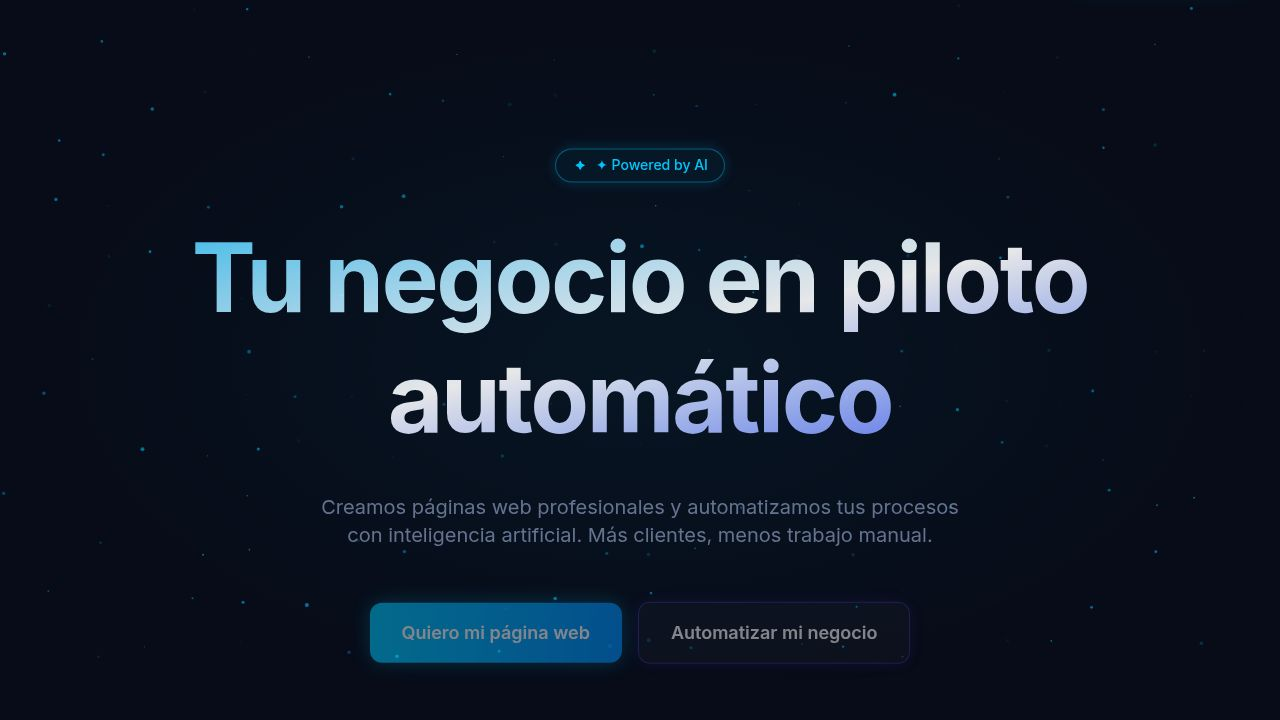
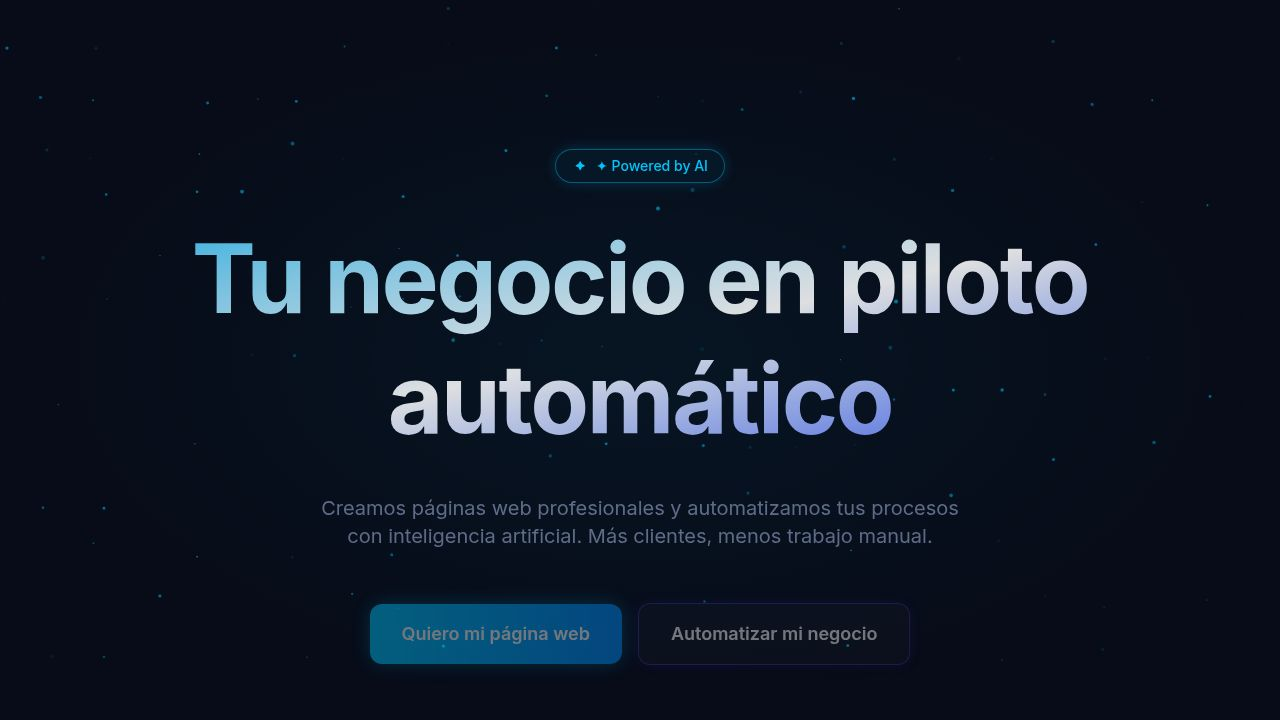
Update pricing section to include web design and AI automation tabs
Replace the existing pricing function with a tabbed interface for "Web Design" and "AI Automation" services, detailing different plans and pricing structures. The footer is also updated to display only the "PRIXMA" text.

Replit-Commit-Author: Agent
Replit-Commit-Session-Id: c377a86b-4fb3-4a33-933d-49b31525615c
Replit-Commit-Checkpoint-Type: full_checkpoint
Replit-Commit-Event-Id: 80b9a12a-a21e-4bb1-b225-8f86090a1c8e
Replit-Commit-Screenshot-Url: https://storage.googleapis.com/screenshot-production-us-central1/6b1daa9f-5ecc-4f44-8dca-c7420880aeb9/c377a86b-4fb3-4a33-933d-49b31525615c/kuLiPdW
Replit-Helium-Checkpoint-Created: true

diff --git a/artifacts/prixma/src/App.tsx b/artifacts/prixma/src/App.tsx
@@ -428,81 +428,259 @@ function PorQue() {
 }
 
 function Precios() {
+  const [tab, setTab] = useState<"web" | "auto">("web");
+
+  const webPlanes = [
+    {
+      nombre: "Esencial",
+      precio: "$800.000 COP",
+      tipo: "pago único",
+      popular: false,
+      items: [
+        "Landing page profesional",
+        "Dominio incluido",
+        "Formulario de contacto",
+        "Optimización móvil",
+        "Entrega en 5 días",
+      ],
+      cta: "Empezar",
+      ctaStyle: "normal" as const,
+    },
+    {
+      nombre: "Pro",
+      precio: "$1.500.000 COP",
+      tipo: "pago único",
+      popular: true,
+      items: [
+        "Landing page profesional",
+        "Dominio incluido",
+        "Formulario de contacto",
+        "Optimización móvil",
+        "Entrega en 5 días",
+        "Blog o catálogo de productos",
+        "Chat integrado",
+        "SEO avanzado",
+        "Google Analytics",
+      ],
+      cta: "Empezar",
+      ctaStyle: "featured" as const,
+    },
+    {
+      nombre: "Full",
+      precio: "$2.800.000 COP",
+      tipo: "pago único",
+      popular: false,
+      items: [
+        "Todo lo del Pro",
+        "Tienda online",
+        "Pasarela de pagos",
+        "Panel de administración",
+        "Soporte 3 meses incluido",
+      ],
+      cta: "Empezar",
+      ctaStyle: "normal" as const,
+    },
+  ];
+
+  const autoPlanes = [
+    {
+      nombre: "Starter",
+      setup: "$500.000",
+      mensual: "$150.000/mes",
+      popular: false,
+      items: [
+        "Bot responde 24/7 por Instagram y Facebook",
+        "Agenda citas automático",
+        "Confirmación instantánea al cliente",
+        "Recordatorio 1 hora antes",
+        "Soporte básico mensual",
+      ],
+      cta: "Cotizar",
+      ctaStyle: "normal" as const,
+    },
+    {
+      nombre: "Pro",
+      setup: "$900.000",
+      mensual: "$280.000/mes",
+      popular: true,
+      items: [
+        "Bot con IA que habla como humano",
+        "WhatsApp + Instagram + Facebook",
+        "Agenda citas automático",
+        "Confirmación y recordatorios automáticos",
+        "Pide reseñas en Google automático",
+        "CRM con historial de clientes",
+        "Soporte mensual",
+      ],
+      cta: "Cotizar",
+      ctaStyle: "featured" as const,
+    },
+    {
+      nombre: "Full",
+      setup: "$1.800.000",
+      mensual: "$500.000/mes",
+      popular: false,
+      items: [
+        "Bot con IA que habla como humano",
+        "WhatsApp + Instagram + Facebook",
+        "Agenda citas automático",
+        "Confirmación y recordatorios automáticos",
+        "Pide reseñas en Google automático",
+        "CRM con historial de clientes",
+        "Campañas de reactivación de clientes",
+        "Reportes semanales de citas agendadas",
+        "Integración con pagos",
+        "Soporte prioritario 7 días",
+      ],
+      cta: "Cotizar",
+      ctaStyle: "normal" as const,
+    },
+  ];
+
+  const accentColor = tab === "web" ? "#00c8ff" : "#6644ff";
+  const accentRgb = tab === "web" ? "0,200,255" : "102,68,255";
+  const checkColor = tab === "web" ? "text-[#00c8ff]" : "text-[#6644ff]";
+
   return (
     <section className="py-24 bg-[#0d1225]" id="precios">
       <div className="container mx-auto px-6">
-        <div className="text-center mb-16">
+        <div className="text-center mb-12">
           <h2 className="text-4xl md:text-5xl font-bold mb-4" style={{ fontFamily: "'Inter', sans-serif" }}>Planes y Precios</h2>
-          <div className="h-1 w-24 bg-gradient-to-r from-[#00c8ff] to-[#6644ff] mx-auto rounded-full"></div>
+          <div className="h-1 w-24 bg-gradient-to-r from-[#00c8ff] to-[#6644ff] mx-auto rounded-full mb-10"></div>
+
+          {/* Tabs */}
+          <div className="inline-flex items-center bg-[#080c18] border border-white/10 rounded-2xl p-1.5 gap-1">
+            <button
+              onClick={() => setTab("web")}
+              className={`px-6 py-3 rounded-xl text-sm font-semibold transition-all duration-300 flex items-center gap-2 ${
+                tab === "web"
+                  ? "bg-[#00c8ff]/15 text-[#00c8ff] border border-[#00c8ff]/40 shadow-[0_0_16px_rgba(0,200,255,0.2)]"
+                  : "text-[#8899bb] hover:text-white"
+              }`}
+            >
+              🌐 Páginas Web
+            </button>
+            <button
+              onClick={() => setTab("auto")}
+              className={`px-6 py-3 rounded-xl text-sm font-semibold transition-all duration-300 flex items-center gap-2 ${
+                tab === "auto"
+                  ? "bg-[#6644ff]/15 text-[#6644ff] border border-[#6644ff]/40 shadow-[0_0_16px_rgba(102,68,255,0.2)]"
+                  : "text-[#8899bb] hover:text-white"
+              }`}
+            >
+              🤖 Automatización IA
+            </button>
+          </div>
         </div>
 
-        <div className="grid lg:grid-cols-3 gap-8 max-w-6xl mx-auto items-center">
-          <CardReveal>
-            <div className="bg-[#080c18] border border-white/10 rounded-2xl p-8 hover:border-white/30 transition-colors">
-              <h3 className="text-2xl font-bold mb-2" style={{ fontFamily: "'Inter', sans-serif" }}>Web Esencial</h3>
-              <p className="text-[#8899bb] mb-6">Para negocios que inician</p>
-              <div className="mb-8">
-                <span className="text-sm text-[#8899bb]">Desde</span>
-                <div className="text-3xl font-bold text-white mt-1" style={{ fontFamily: "'Inter', sans-serif" }}>$800.000 COP</div>
-              </div>
-              <ul className="space-y-4 mb-8">
-                {["Landing page profesional", "Dominio incluido", "Formulario de contacto", "Optimización móvil", "Entrega en 5 días"].map((item, i) => (
-                  <li key={i} className="flex items-start gap-3 text-sm text-white/80">
-                    <CheckCircle2 size={18} className="text-[#00c8ff] shrink-0 mt-0.5" /> <span>{item}</span>
-                  </li>
-                ))}
-              </ul>
-              <a href="#contacto" className="block w-full py-3 text-center rounded-xl bg-white/5 border border-white/10 hover:bg-white/10 transition-colors font-medium">
-                Empezar
-              </a>
-            </div>
-          </CardReveal>
+        {/* Web plans */}
+        {tab === "web" && (
+          <div className="grid lg:grid-cols-3 gap-8 max-w-6xl mx-auto items-center">
+            {webPlanes.map((plan, i) => (
+              <CardReveal key={plan.nombre} delay={i * 0.15}>
+                <div
+                  className={`relative h-full rounded-2xl p-8 flex flex-col transition-all duration-300 ${
+                    plan.popular
+                      ? "bg-[#080c18] border-2 border-[#00c8ff] shadow-[0_0_30px_rgba(0,200,255,0.15)] lg:scale-105 z-10"
+                      : "bg-[#080c18] border border-white/10 hover:border-white/30"
+                  }`}
+                >
+                  {plan.popular && (
+                    <div className="absolute -top-4 left-1/2 -translate-x-1/2 bg-[#00c8ff] text-[#080c18] text-xs font-bold px-4 py-1.5 rounded-full flex items-center gap-1 uppercase tracking-wide whitespace-nowrap">
+                      <Star size={12} fill="currentColor" /> Más popular
+                    </div>
+                  )}
+                  <h3
+                    className={`text-2xl font-bold mb-1 ${plan.popular ? "text-[#00c8ff]" : "text-white"}`}
+                    style={{ fontFamily: "'Inter', sans-serif" }}
+                  >
+                    {plan.nombre}
+                  </h3>
+                  <span className="text-xs text-[#8899bb] mb-6 block">{plan.tipo}</span>
+                  <div className="mb-8">
+                    <div className="text-3xl font-bold text-white" style={{ fontFamily: "'Inter', sans-serif" }}>{plan.precio}</div>
+                  </div>
+                  <ul className="space-y-3 mb-8 flex-grow">
+                    {plan.items.map((item, j) => (
+                      <li key={j} className="flex items-start gap-3 text-sm text-white/80">
+                        <CheckCircle2 size={16} className={`${checkColor} shrink-0 mt-0.5`} />
+                        <span>{item}</span>
+                      </li>
+                    ))}
+                  </ul>
+                  <a
+                    href="#contacto"
+                    className={`block w-full py-3 text-center rounded-xl font-bold transition-colors ${
+                      plan.popular
+                        ? "bg-[#00c8ff] text-[#080c18] hover:bg-[#0090ff] hover:text-white"
+                        : "bg-white/5 border border-white/10 text-white hover:bg-white/10"
+                    }`}
+                  >
+                    {plan.cta}
+                  </a>
+                </div>
+              </CardReveal>
+            ))}
+          </div>
+        )}
 
-          <CardReveal delay={0.2}>
-            <div className="relative bg-[#080c18] border-2 border-[#00c8ff] rounded-2xl p-8 shadow-[0_0_30px_rgba(0,200,255,0.15)] transform lg:scale-105 z-10">
-              <div className="absolute -top-4 left-1/2 -translate-x-1/2 bg-[#00c8ff] text-[#080c18] text-xs font-bold px-4 py-1.5 rounded-full flex items-center gap-1 uppercase tracking-wide">
-                <Star size={14} fill="currentColor" /> Más popular
-              </div>
-              <h3 className="text-2xl font-bold mb-2 text-[#00c8ff]" style={{ fontFamily: "'Inter', sans-serif" }}>Web Pro</h3>
-              <p className="text-[#8899bb] mb-6">Para negocios en crecimiento</p>
-              <div className="mb-8">
-                <span className="text-sm text-[#8899bb]">Desde</span>
-                <div className="text-3xl font-bold text-white mt-1" style={{ fontFamily: "'Inter', sans-serif" }}>$1.500.000 COP</div>
-              </div>
-              <ul className="space-y-4 mb-8">
-                {["Todo lo de Web Esencial", "Blog o catálogo de productos", "Chat integrado", "SEO avanzado", "Google Analytics"].map((item, i) => (
-                  <li key={i} className="flex items-start gap-3 text-sm text-white/90">
-                    <CheckCircle2 size={18} className="text-[#00c8ff] shrink-0 mt-0.5" /> <span>{item}</span>
-                  </li>
-                ))}
-              </ul>
-              <a href="#contacto" className="block w-full py-3 text-center rounded-xl bg-[#00c8ff] text-[#080c18] hover:bg-[#0090ff] hover:text-white transition-colors font-bold">
-                Empezar
-              </a>
-            </div>
-          </CardReveal>
-
-          <CardReveal delay={0.4}>
-            <div className="bg-[#080c18] border border-white/10 rounded-2xl p-8 hover:border-white/30 transition-colors">
-              <h3 className="text-2xl font-bold mb-2" style={{ fontFamily: "'Inter', sans-serif" }}>Automatización IA</h3>
-              <p className="text-[#8899bb] mb-6">Procesos en piloto automático</p>
-              <div className="mb-8">
-                <span className="text-sm text-[#8899bb]">Desde</span>
-                <div className="text-3xl font-bold text-white mt-1" style={{ fontFamily: "'Inter', sans-serif" }}>$500.000 <span className="text-lg font-normal text-[#8899bb]">COP/mes</span></div>
-              </div>
-              <ul className="space-y-4 mb-8">
-                {["Chatbot WhatsApp/Instagram", "Respuestas 24/7", "Panel de control", "Soporte mensual"].map((item, i) => (
-                  <li key={i} className="flex items-start gap-3 text-sm text-white/80">
-                    <CheckCircle2 size={18} className="text-[#6644ff] shrink-0 mt-0.5" /> <span>{item}</span>
-                  </li>
-                ))}
-              </ul>
-              <a href="#contacto" className="block w-full py-3 text-center rounded-xl bg-white/5 border border-[#6644ff]/30 text-white hover:bg-[#6644ff]/10 hover:border-[#6644ff] transition-colors font-medium">
-                Cotizar
-              </a>
-            </div>
-          </CardReveal>
-        </div>
+        {/* Auto plans */}
+        {tab === "auto" && (
+          <div className="grid lg:grid-cols-3 gap-8 max-w-6xl mx-auto items-center">
+            {autoPlanes.map((plan, i) => (
+              <CardReveal key={plan.nombre} delay={i * 0.15}>
+                <div
+                  className={`relative h-full rounded-2xl p-8 flex flex-col transition-all duration-300 ${
+                    plan.popular
+                      ? "bg-[#080c18] border-2 border-[#6644ff] shadow-[0_0_30px_rgba(102,68,255,0.15)] lg:scale-105 z-10"
+                      : "bg-[#080c18] border border-white/10 hover:border-white/30"
+                  }`}
+                >
+                  {plan.popular && (
+                    <div className="absolute -top-4 left-1/2 -translate-x-1/2 bg-[#6644ff] text-white text-xs font-bold px-4 py-1.5 rounded-full flex items-center gap-1 uppercase tracking-wide whitespace-nowrap">
+                      <Star size={12} fill="currentColor" /> Más popular
+                    </div>
+                  )}
+                  <h3
+                    className={`text-2xl font-bold mb-1 ${plan.popular ? "text-[#a077ff]" : "text-white"}`}
+                    style={{ fontFamily: "'Inter', sans-serif" }}
+                  >
+                    {plan.nombre}
+                  </h3>
+                  <span className="text-xs text-[#8899bb] mb-5 block">Setup + mensualidad</span>
+                  <div className="mb-8 space-y-1">
+                    <div className="flex items-baseline gap-2">
+                      <span className="text-xs text-[#8899bb]">Setup:</span>
+                      <span className="text-2xl font-bold text-white" style={{ fontFamily: "'Inter', sans-serif" }}>{plan.setup}</span>
+                    </div>
+                    <div className="flex items-baseline gap-2">
+                      <span className="text-xs text-[#8899bb]">Mensual:</span>
+                      <span className="text-xl font-semibold text-[#a077ff]">{plan.mensual}</span>
+                    </div>
+                  </div>
+                  <ul className="space-y-3 mb-8 flex-grow">
+                    {plan.items.map((item, j) => (
+                      <li key={j} className="flex items-start gap-3 text-sm text-white/80">
+                        <CheckCircle2 size={16} className="text-[#6644ff] shrink-0 mt-0.5" />
+                        <span>{item}</span>
+                      </li>
+                    ))}
+                  </ul>
+                  <a
+                    href="#contacto"
+                    className={`block w-full py-3 text-center rounded-xl font-bold transition-colors ${
+                      plan.popular
+                        ? "bg-[#6644ff] text-white hover:bg-[#5533ee]"
+                        : "bg-white/5 border border-[#6644ff]/30 text-white hover:bg-[#6644ff]/10 hover:border-[#6644ff]"
+                    }`}
+                  >
+                    {plan.cta}
+                  </a>
+                </div>
+              </CardReveal>
+            ))}
+          </div>
+        )}
       </div>
     </section>
   );
@@ -723,7 +901,7 @@ function Footer() {
     <footer className="bg-[#080c18] border-t border-white/10 py-12 text-center">
       <div className="container mx-auto px-6">
         <div className="flex flex-col items-center justify-center mb-8">
-          <PrixmaWordmark />
+          <span className="font-bold text-2xl tracking-widest text-white" style={{ fontFamily: "'Inter', sans-serif" }}>PRIXMA</span>
         </div>
 
         <div className="flex items-center justify-center gap-6 mb-8">